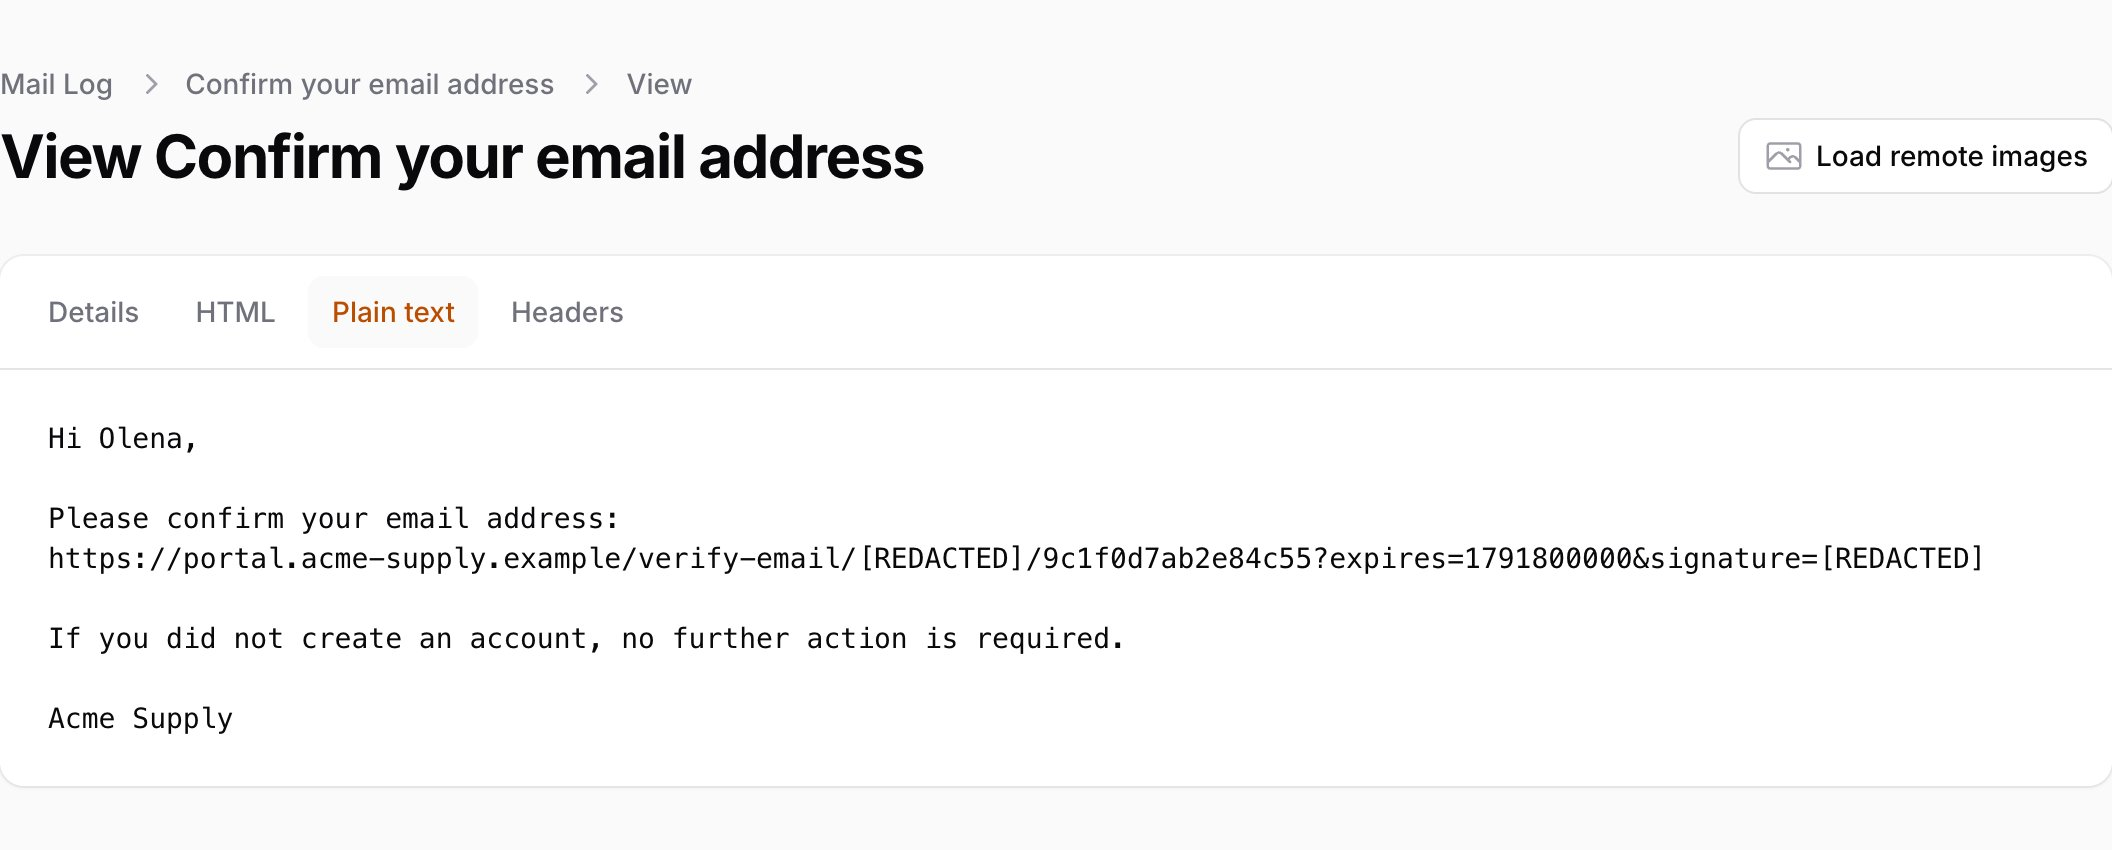
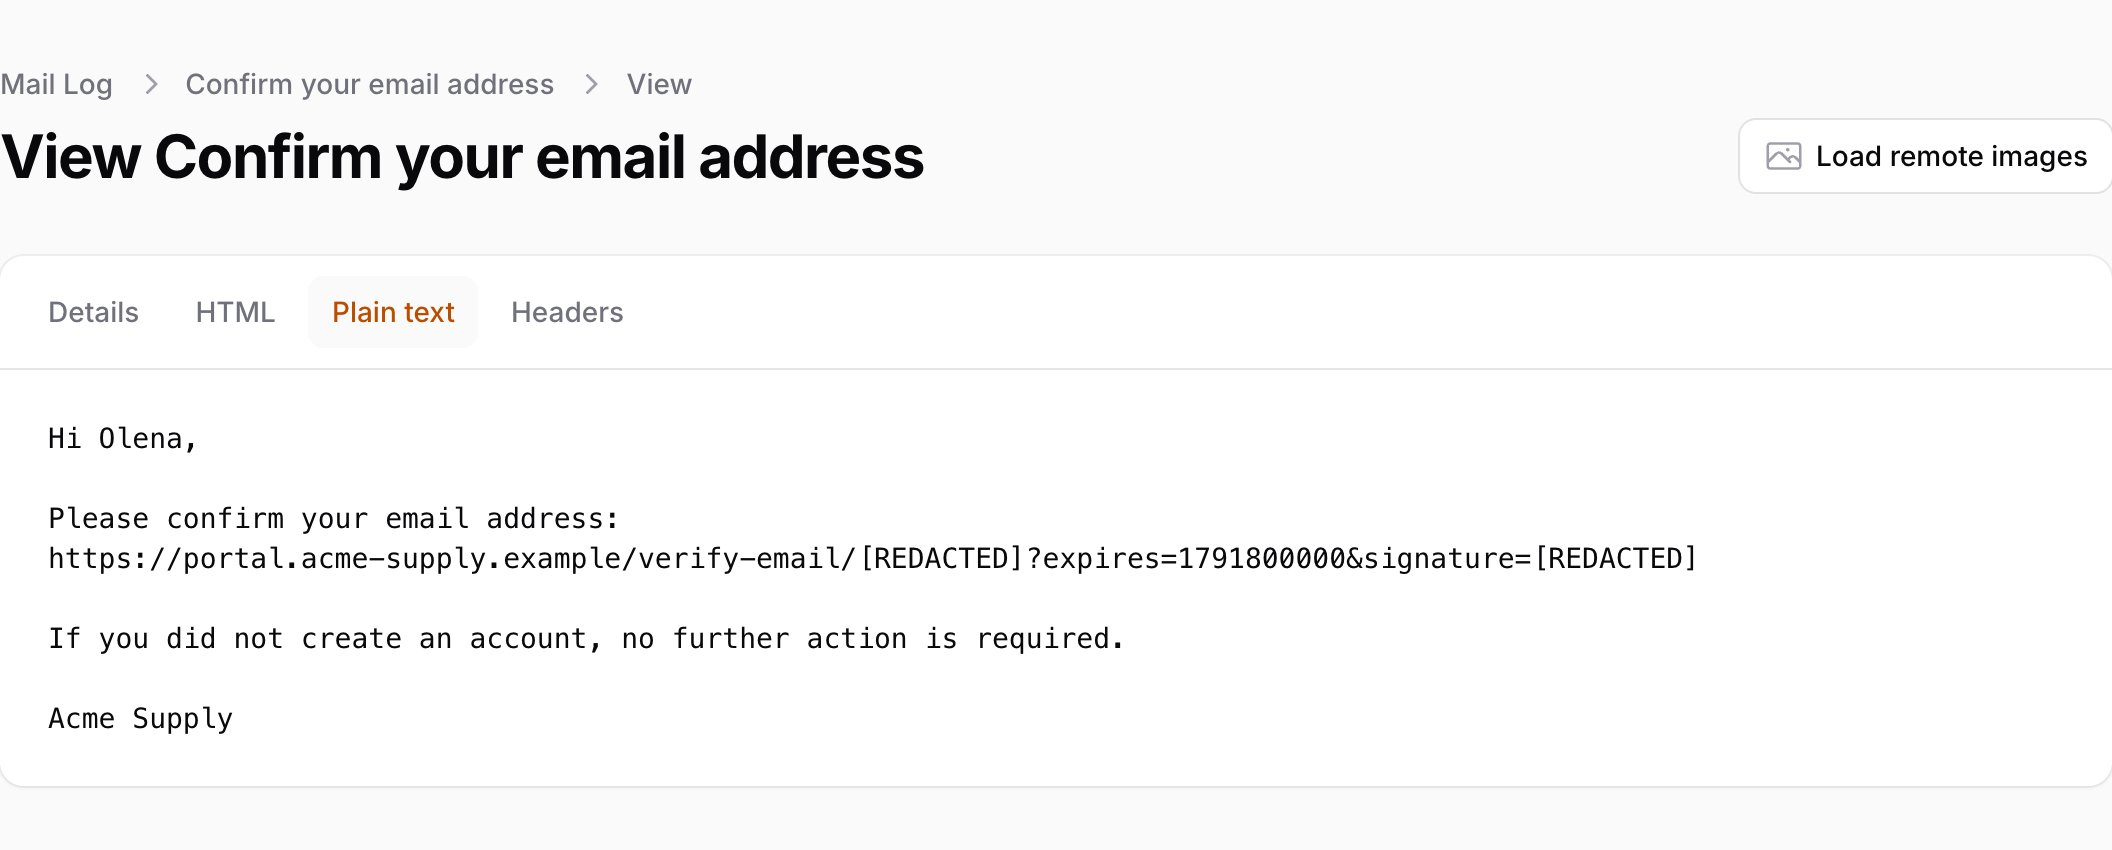
fix: full-width HTML preview on stock Filament; redact every segment of secret URL paths
The preview iframe used Tailwind classes absent from Filament's CSS (300px wide). The path
redactor removed only the first segment after the prefix, so /email/verify/{id}/{hash}
hid the id and kept the secret hash.

Changed region(s): [[0.4688, 0.6424, 0.9375, 0.6729]]

diff --git a/tests/Unit/MailRedactorTest.php b/tests/Unit/MailRedactorTest.php
@@ -54,6 +54,30 @@ class MailRedactorTest extends TestCase
         );
     }
 
+    public function test_the_laravel_verification_url_loses_the_id_and_the_hash(): void
+    {
+        $url = 'http://localhost/email/verify/41/9c1f0d7ab2e84c55?expires=1760000000&signature=SIGSECRET';
+
+        $text = (string) MailRedactor::apply($url)->text;
+
+        $this->assertSame('http://localhost/email/verify/[REDACTED]?expires=1760000000&signature=[REDACTED]', $text);
+
+        $text = (string) MailRedactor::apply('http://localhost/verify-email/41/9c1f0d7ab2e84c55?expires=1&amp;signature=S')->text;
+
+        $this->assertStringNotContainsString('9c1f0d7ab2e84c55', $text);
+        $this->assertStringContainsString('/verify-email/[REDACTED]?', $text);
+    }
+
+    public function test_the_password_reset_url_loses_the_token_but_keeps_the_email_query(): void
+    {
+        // The e-mail address is personal data, not a secret: the log stores the mail's recipient anyway,
+        // and the README says redaction removes secrets, not names. Use `redaction.patterns` to drop it too.
+        $this->assertSame(
+            'http://localhost/reset-password/[REDACTED]?email=ann%40example.test',
+            MailRedactor::apply('http://localhost/reset-password/8f3c2a91d0b74e6f?email=ann%40example.test')->text,
+        );
+    }
+
     public function test_a_parameter_that_only_ends_with_a_listed_name_is_not_touched(): void
     {
         $result = MailRedactor::apply('https://x.test/?monkey=1&hotkey=2&page=3');

diff --git a/src/Support/MailRedactor.php b/src/Support/MailRedactor.php
@@ -9,7 +9,7 @@ namespace Asignua\FilamentMailLog\Support;
  *
  * What goes (see `filament-mail-log.redaction`):
  *  - the value of configured query parameters (`signature=…`, `token=…`) in any URL;
- *  - the secret segment after configured path prefixes (`/reset-password/{token}`);
+ *  - the secret segments after configured path prefixes (`/reset-password/{token}`, `/email/verify/{id}/{hash}`);
  *  - the value after a credential label (`Password: hunter2`, `token = abc`);
  *  - whatever the configured extra regular expressions match.
  *
@@ -91,7 +91,9 @@ final class MailRedactor
 
         if ($paths !== []) {
             $rules[] = [
-                '~(/(?:'.self::alternation($paths).'))/[^/\s"\'<>?#]+~iu',
+                // Every segment after the prefix goes: Laravel's `/email/verify/{id}/{hash}` carries the secret
+                // (sha1 of the e-mail) in the LAST segment, `/reset-password/{token}` in the only one.
+                '~(/(?:'.self::alternation($paths).'))(?:/[^/\s"\'<>?#]+)+~iu',
                 '$1/'.self::PLACEHOLDER,
             ];
         }

diff --git a/config/filament-mail-log.php b/config/filament-mail-log.php
@@ -100,8 +100,9 @@ return [
         ],
 
         /*
-         * URL path prefixes followed by a secret segment: /reset-password/{token} becomes
-         * /reset-password/[REDACTED]. Matched anywhere in a URL path, case-insensitive.
+         * URL path prefixes followed by secret segments: /reset-password/{token} becomes
+         * /reset-password/[REDACTED], and /email/verify/{id}/{hash} becomes /email/verify/[REDACTED] (every
+         * segment after the prefix goes, up to the query string). Matched anywhere in a URL path, case-insensitive.
          */
         'path_prefixes' => [
             'reset-password', 'password/reset', 'password-reset', 'reset_password', 'forgot-password/reset',

diff --git a/resources/views/components/mail-frame.blade.php b/resources/views/components/mail-frame.blade.php
@@ -11,6 +11,6 @@
     sandbox=""
     referrerpolicy="no-referrer"
     loading="lazy"
-    style="height: {{ $height }}"
-    {{ $attributes->merge(['class' => 'w-full rounded-xl bg-white ring-1 ring-gray-950/5 dark:ring-white/10']) }}
+    {{-- Inline on purpose: stock Filament CSS has no utility classes, so `w-full` & co. would leave a 300px frame. --}}
+    {{ $attributes->merge(['class' => 'fi-mail-log-frame'])->merge(['style' => 'display: block; box-sizing: border-box; width: 100%; min-height: 24rem; height: '.$height.'; border: 1px solid rgb(128 128 128 / .25); border-radius: .75rem; background-color: #fff']) }}
 ></iframe>

diff --git a/tests/Feature/ResourceTest.php b/tests/Feature/ResourceTest.php
@@ -204,6 +204,15 @@ class ResourceTest extends TestCase
         $this->assertStringNotContainsString('Content-Security-Policy', $out);
     }
 
+    public function test_the_frame_is_full_width_without_any_tailwind_class(): void
+    {
+        $out = Blade::render('<x-filament-mail-log::mail-frame html="<p>x</p>" height="75vh" />');
+
+        $this->assertStringContainsString('width: 100%', $out);
+        $this->assertStringContainsString('height: 75vh', $out);
+        $this->assertStringNotContainsString('w-full', $out);
+    }
+
     public function test_the_text_tab_escapes_the_body(): void
     {
         $this->allow();

diff --git a/README.md b/README.md
@@ -26,6 +26,10 @@ Signed-link signatures and reset tokens are replaced before the copy is stored:
 
 ![Plain text tab with a redacted signature and token](https://raw.githubusercontent.com/asignua/filament-mail-log/v1.0.1/art/view-text.jpg)
 
+The HTML tab renders the stored body in a sandboxed frame (no scripts, remote images off until you ask):
+
+![The HTML tab](https://raw.githubusercontent.com/asignua/filament-mail-log/v1.0.1/art/view-html.jpg)
+
 Dark mode:
 
 ![The mail log in dark mode](https://raw.githubusercontent.com/asignua/filament-mail-log/v1.0.1/art/list-dark.jpg)
@@ -135,7 +139,8 @@ Applied to the bodies, the subject, the header values and the error text:
 - `redaction.query_parameters`: the value of `signature`, `token`, `code`, `api_key`, ... in any URL becomes
   `[REDACTED]` (also inside HTML, where `&amp;` separates parameters).
 - `redaction.path_prefixes`: `/reset-password/{token}` becomes `/reset-password/[REDACTED]` (also
-  `verify-email`, `magic-link`, `invitation`, ...).
+  `verify-email`, `magic-link`, `invitation`, ...). Every segment after the prefix is removed, so
+  `/email/verify/{id}/{hash}` becomes `/email/verify/[REDACTED]`; the query string is handled by `query_parameters`.
 - `redaction.credential_labels`: `Password: hunter2` keeps the label and drops the value.
 - `redaction.patterns`: your own regexes (the whole match is replaced). Add the `u` flag (`~…~iu`) to anything that touches non-ASCII text: without it `\b` and `/i` do not see UTF-8 letters. The built-in rules and `credential_labels` (en, uk/ru, de, pl, es) are already UTF-8 safe.
 

diff --git a/CHANGELOG.md b/CHANGELOG.md
@@ -4,6 +4,8 @@ All notable changes to `asignua/filament-mail-log` are documented here.
 
 ## 1.0.1 - Unreleased
 
+- Fix: the HTML preview iframe is full width on a stock Filament panel (it used Tailwind classes that Filament's CSS does not contain, so it was 300px wide). Inline styles, light and dark mode.
+- Fix: redaction of `redaction.path_prefixes` now removes EVERY segment after the prefix. Laravel's verification link `/email/verify/{id}/{hash}` was stored as `/email/verify/[REDACTED]/{hash}`: the id was hidden and the secret hash stayed visible. The e-mail query of a reset link (`?email=…`) is still kept: it is personal data, not a secret (use `redaction.patterns` to drop it).
 - Docs: screenshots, cover and a workbench demo.
 
 ## 1.0.0 (unreleased)
